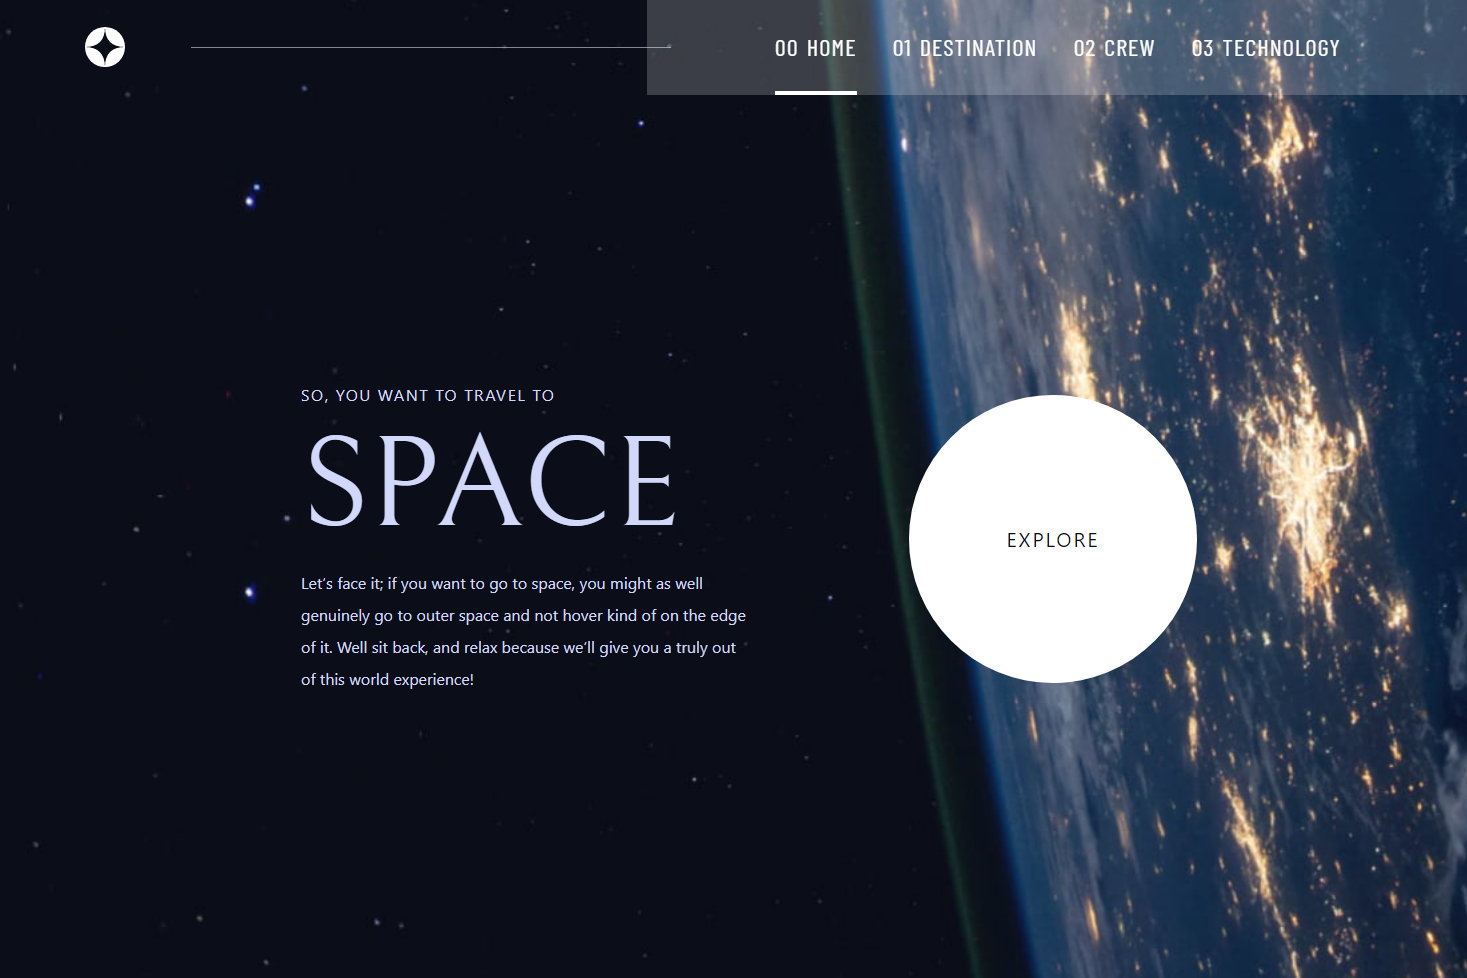
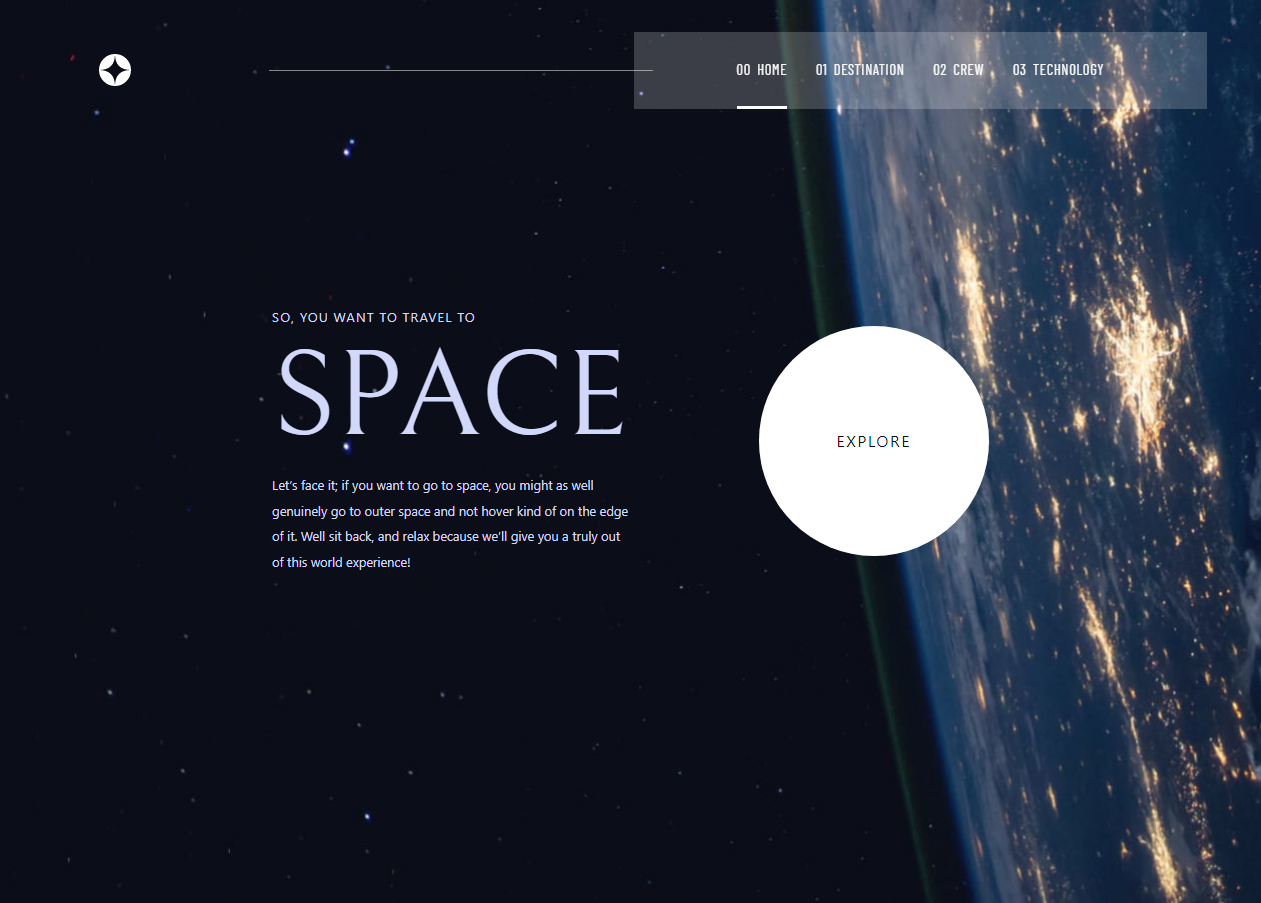
Update desktop view screenshot

diff --git a/README.md b/README.md
@@ -14,7 +14,7 @@ The goals:
 <div align="center">
   <img src="https://user-images.githubusercontent.com/35031228/148137582-7a9a91f6-9129-43be-ae9a-1b8d25c015db.png" alt="mobile view" width="300"/>
   <img src="https://user-images.githubusercontent.com/35031228/148137584-07bf82f0-69d5-4513-aa3b-c01cb89645cf.png" alt="tablet view" width="400"/>
-  <img src="https://user-images.githubusercontent.com/35031228/148137585-eb1260b5-78e7-4316-a762-f454cf1e25e1.png" alt="desktop view" width="600"/>
+  <img src="https://user-images.githubusercontent.com/35031228/148599848-9358c011-3db4-4a6a-8680-e74d5fad291b.png" alt="desktop view" width="600"/>
 </div>
 
 ## Links
